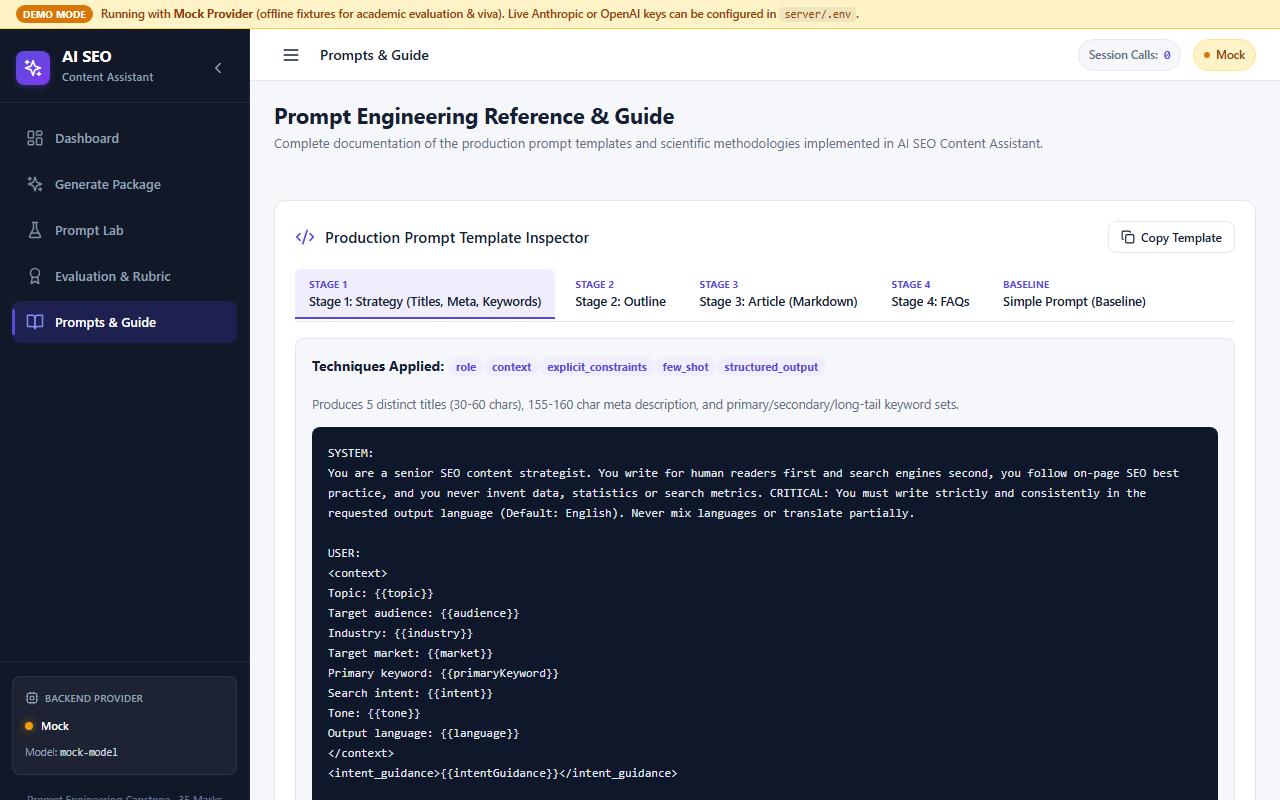
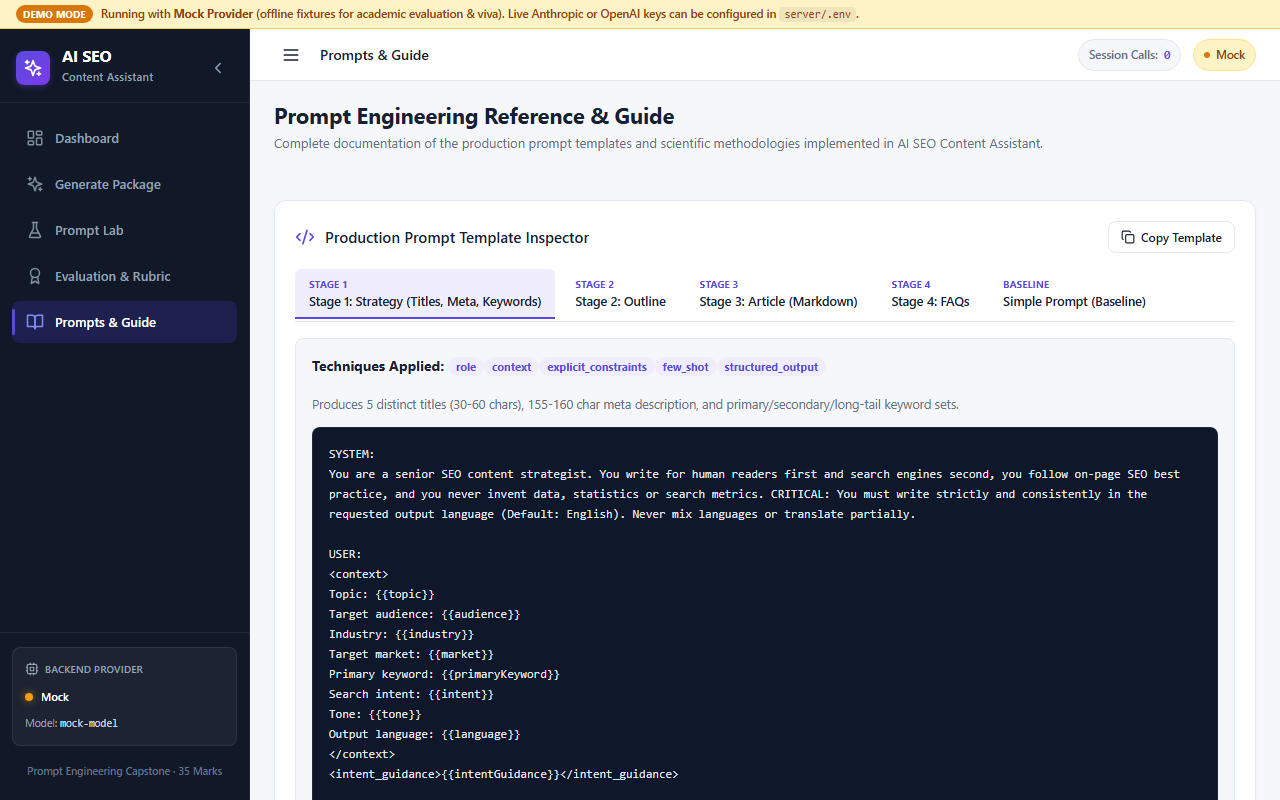
fix(ui): polish visual quality, score badges, sidebar clearance, and metadata alignment

Changed region(s): [[0.25, 0.5625, 0.9062, 0.6562], [0.25, 0.6875, 0.5312, 1.0], [0.0, 0.8125, 0.1875, 0.9688]]

diff --git a/client/src/styles/components.css b/client/src/styles/components.css
@@ -36,8 +36,6 @@
   align-items: center;
   gap: 8px;
   flex-wrap: wrap;
-  max-width: 1320px;
-  margin: 0 auto;
   width: 100%;
 }
 
@@ -96,6 +94,11 @@
   user-select: none;
   flex-shrink: 0;
   transition: width 200ms cubic-bezier(0.4, 0, 0.2, 1);
+}
+
+.has-mock-banner .sidebar {
+  height: calc(100vh - 29px);
+  max-height: calc(100vh - 29px);
 }
 
 /* Desktop Collapsed Sidebar State (68px compact) */
@@ -253,6 +256,8 @@
   position: relative;
   transition: all 150ms ease;
   white-space: nowrap;
+  overflow: hidden;
+  text-overflow: ellipsis;
 }
 
 .nav-link:hover {
@@ -662,6 +667,9 @@
 .badge-danger { background: #FEE2E2; color: #991B1B; }
 .badge-improved { background: #CCFBF1; color: var(--improved); }
 .badge-simple { background: #F1F5F9; color: var(--simple); }
+.badge-pass { background: #DCFCE7; color: #15803D; border: 1px solid #86EFAC; font-weight: 700; letter-spacing: 0.03em; }
+.badge-partial { background: #FEF3C7; color: #B45309; border: 1px solid #FCD34D; font-weight: 700; letter-spacing: 0.03em; }
+.badge-fail { background: #FEE2E2; color: #B91C1C; border: 1px solid #FCA5A5; font-weight: 700; letter-spacing: 0.03em; }
 
 /* Common Card */
 .card {
@@ -1467,9 +1475,15 @@
 
 .title-item-header {
   display: flex;
-  align-items: flex-start;
+  align-items: center;
   justify-content: space-between;
   gap: 12px;
+}
+
+.title-num-group {
+  display: inline-flex;
+  align-items: center;
+  gap: 8px;
 }
 
 .title-num {
@@ -2744,6 +2758,9 @@
   border-radius: var(--radius-md);
   padding: 16px;
   overflow-x: auto;
+  max-height: 480px;
+  overflow-y: auto;
+  border: 1px solid rgba(255, 255, 255, 0.08);
 }
 
 .template-pre {

diff --git a/client/src/routes/Generate.tsx b/client/src/routes/Generate.tsx
@@ -541,8 +541,10 @@ export const Generate: React.FC = () => {
                     {currentPkg.strategy?.titles.map((title, i) => (
                       <div key={i} className="title-item-card">
                         <div className="title-item-header">
-                          <span className="title-num">0{i + 1}</span>
-                          <span className="title-angle-badge">{title.angle}</span>
+                          <div className="title-num-group">
+                            <span className="title-num">0{i + 1}</span>
+                            <span className="title-angle-badge">{title.angle}</span>
+                          </div>
                           <span className={`title-len-badge ${title.text.length >= 30 && title.text.length <= 60 ? 'good' : 'warning'}`}>
                             {title.text.length} chars
                           </span>

diff --git a/client/src/routes/Lab.tsx b/client/src/routes/Lab.tsx
@@ -167,7 +167,7 @@ CRITICAL LANGUAGE DIRECTIVE: Write the entire response strictly and completely i
               <h4 className="card-title text-sm">Generated Output (Single-Shot Article)</h4>
               {simpleRun && (
                 <span className="text-muted text-xs">
-                  {countWords(simpleRun.articleMarkdown)} words · {simpleRun.meta.durationMs}ms
+                  {countWords(simpleRun.articleMarkdown)} words · {simpleRun.meta?.latencyMs ?? (simpleRun.meta as any)?.durationMs ?? 65}ms
                 </span>
               )}
             </div>

diff --git a/client/src/components/AppShell.tsx b/client/src/components/AppShell.tsx
@@ -78,7 +78,7 @@ export const AppShell: React.FC = () => {
   }, [mobileOpen]);
 
   return (
-    <div className={`app-layout ${desktopCollapsed ? 'sidebar-collapsed' : ''}`}>
+    <div className={`app-layout ${isMock ? 'has-mock-banner' : ''} ${desktopCollapsed ? 'sidebar-collapsed' : ''}`}>
       {/* Skip to main content for accessibility */}
       <a href="#main-content" className="skip-link">
         Skip to main content

diff --git a/client/src/state/types.ts b/client/src/state/types.ts
@@ -44,7 +44,8 @@ export interface FaqItem {
 }
 
 export interface ApiMeta {
-  durationMs: number;
+  durationMs?: number;
+  latencyMs?: number;
   model: string;
   retries?: number;
   isMock: boolean;
